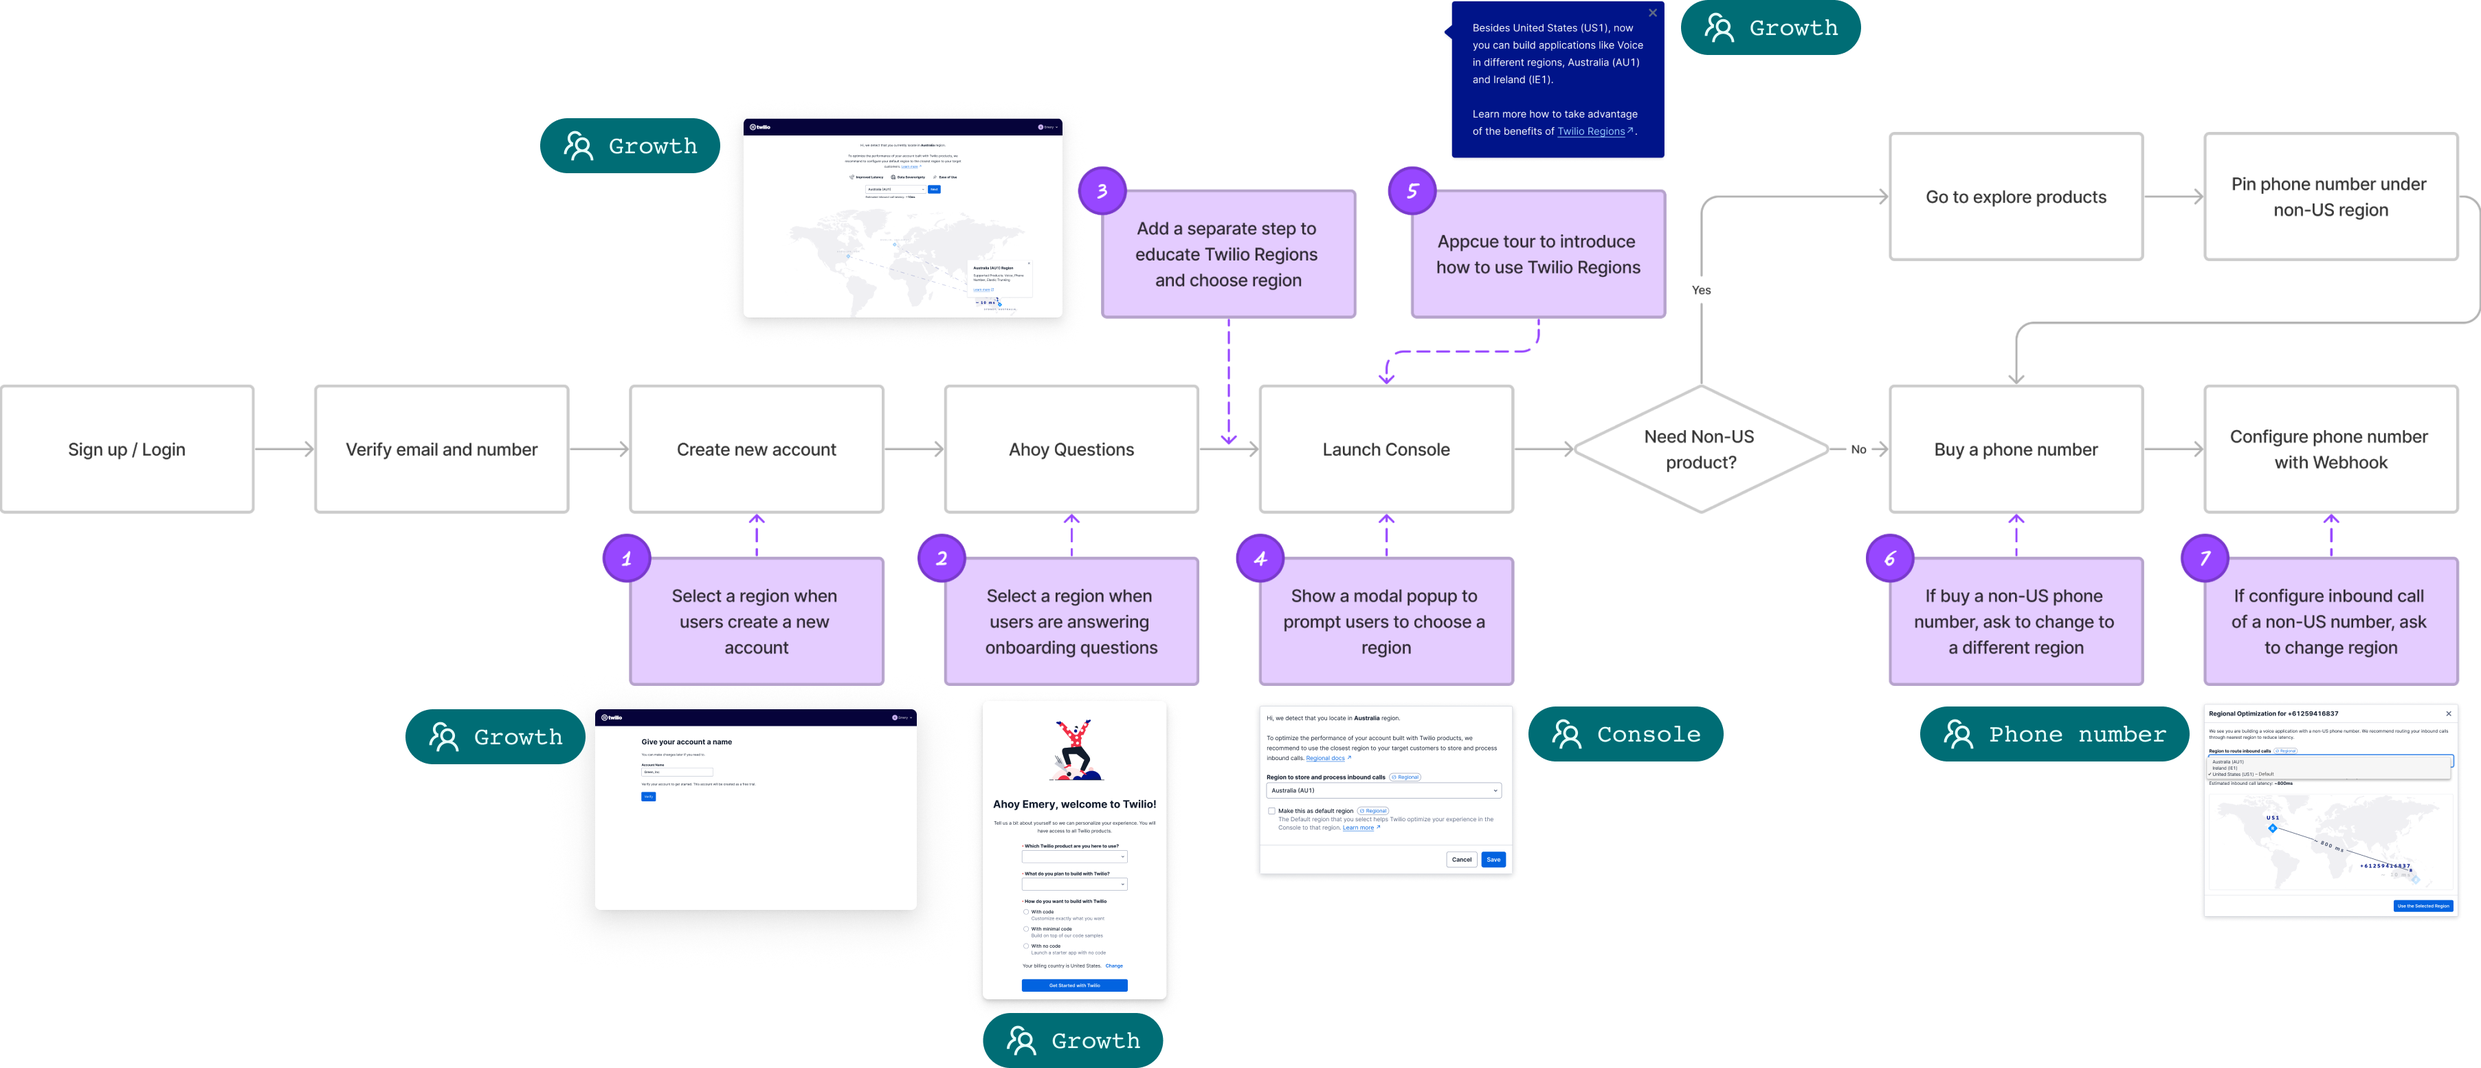
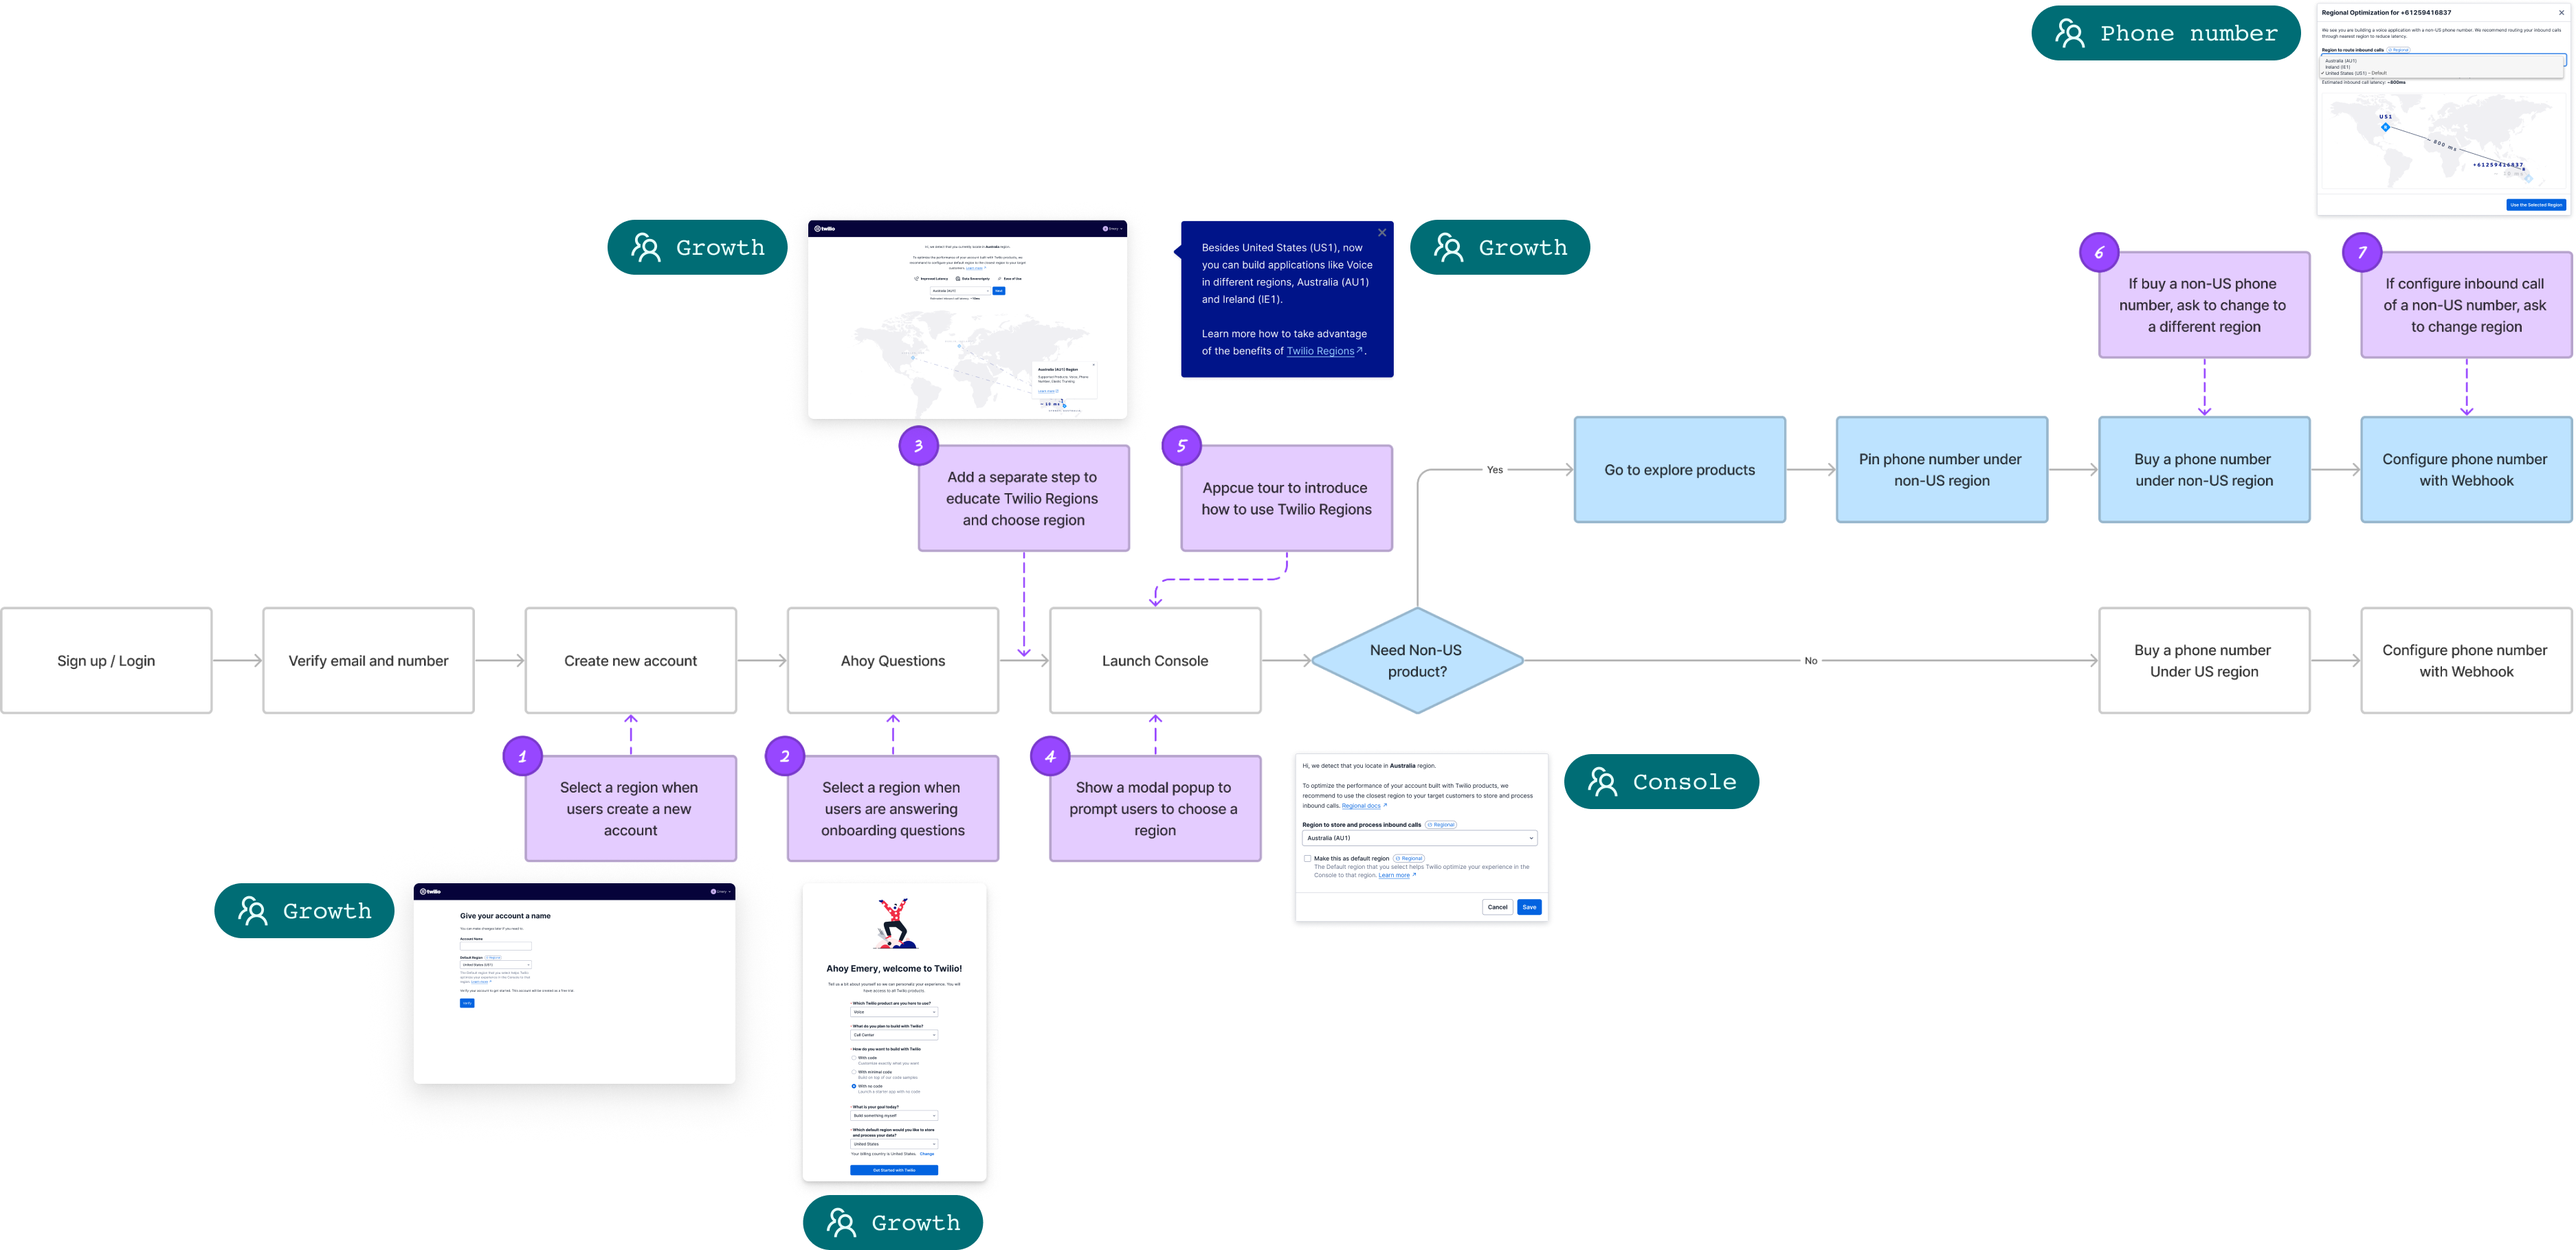
fix: restore PNG (transparency), square full-bleed cover, uncrop critiques
- flows + design_critique1/2 were converted to JPG during the perf pass,
  losing transparency. Restored as downscaled PNGs from the originals
  (flows 1600w, critiques 1400h) so the flow diagram's transparent areas
  show the grid through. Updated twilio.mdx refs + dimensions. (Sketches
  stay JPG — they're photos.)
- Hero cover is full-bleed, so removed its border-radius — rounded corners
  against the viewport edges looked off. Real cover images now use
  object-fit:contain (no crop) instead of cover.
- Critique screenshots are tall portraits but were forced into a 4/3
  object-fit:cover thumb and cropped. Show them at natural ratio (no crop),
  with width/height for CLS and lazy loading.
- Hardened showcase-fullbleed e2e against a parallel-run image-load race.

diff --git a/tests/e2e/showcase-fullbleed.spec.ts b/tests/e2e/showcase-fullbleed.spec.ts
@@ -27,7 +27,11 @@ for (const width of [1440, 1000]) {
     expect(Math.abs(width - (band.x + band.width)), `band right gap`).toBeLessThanOrEqual(TOL);
 
     // Image is not cropped: rendered aspect ratio matches the natural one.
+    // Wait for the lazy image to finish decoding first so naturalWidth is set
+    // (avoids a parallel-run race where it reads 0 before load).
     const img = page.locator('.image-showcase img').first();
+    await img.scrollIntoViewIfNeeded();
+    await expect.poll(() => img.evaluate((el: HTMLImageElement) => el.complete && el.naturalWidth > 0)).toBe(true);
     const ar = await img.evaluate((el: HTMLImageElement) => ({
       rendered: el.getBoundingClientRect().width / el.getBoundingClientRect().height,
       natural: el.naturalWidth / el.naturalHeight,
